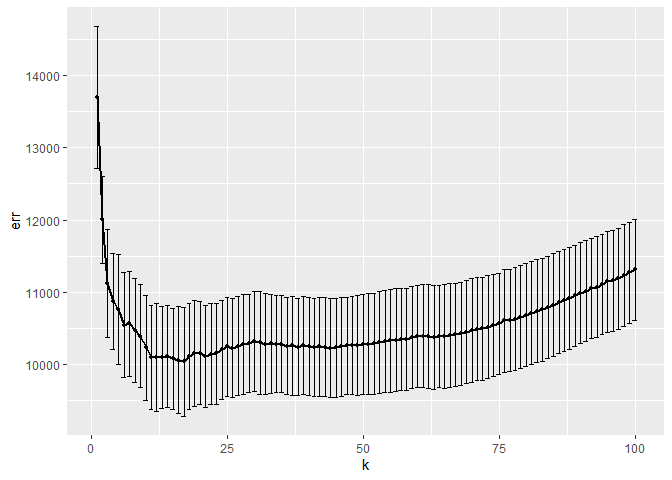
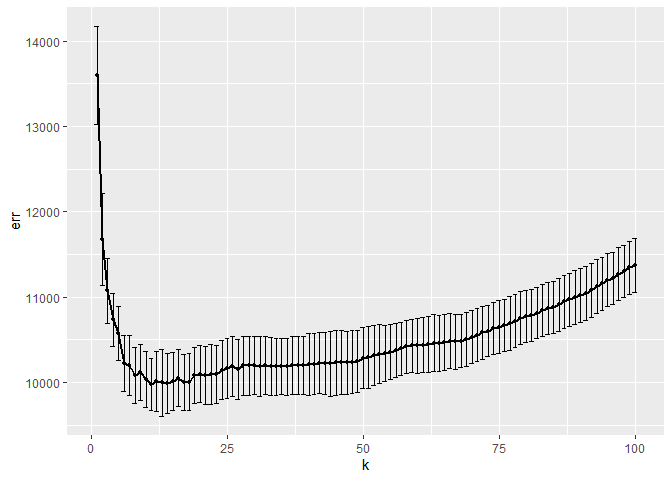
HW 2 code， DDL Mar7 5pm

diff --git a/Assignment-1.md b/Assignment-1.md
@@ -50,20 +50,67 @@ Top 100.
 
 we get the result:
 
-    ## # A tibble: 10 x 3
-    ## # Groups:   performer [10]
-    ##    performer                              song                             count
-    ##    <chr>                                  <chr>                            <int>
-    ##  1 Imagine Dragons                        Radioactive                         87
-    ##  2 AWOLNATION                             Sail                                79
-    ##  3 Jason Mraz                             I'm Yours                           76
-    ##  4 The Weeknd                             Blinding Lights                     76
-    ##  5 LeAnn Rimes                            How Do I Live                       69
-    ##  6 LMFAO Featuring Lauren Bennett & Goon~ Party Rock Anthem                   68
-    ##  7 OneRepublic                            Counting Stars                      68
-    ##  8 Adele                                  Rolling In The Deep                 65
-    ##  9 Jewel                                  Foolish Games/You Were Meant Fo~    65
-    ## 10 Carrie Underwood                       Before He Cheats                    64
+<table>
+<thead>
+<tr class="header">
+<th style="text-align: left;">performer</th>
+<th style="text-align: left;">song</th>
+<th style="text-align: right;">count</th>
+</tr>
+</thead>
+<tbody>
+<tr class="odd">
+<td style="text-align: left;">Imagine Dragons</td>
+<td style="text-align: left;">Radioactive</td>
+<td style="text-align: right;">87</td>
+</tr>
+<tr class="even">
+<td style="text-align: left;">AWOLNATION</td>
+<td style="text-align: left;">Sail</td>
+<td style="text-align: right;">79</td>
+</tr>
+<tr class="odd">
+<td style="text-align: left;">Jason Mraz</td>
+<td style="text-align: left;">I’m Yours</td>
+<td style="text-align: right;">76</td>
+</tr>
+<tr class="even">
+<td style="text-align: left;">The Weeknd</td>
+<td style="text-align: left;">Blinding Lights</td>
+<td style="text-align: right;">76</td>
+</tr>
+<tr class="odd">
+<td style="text-align: left;">LeAnn Rimes</td>
+<td style="text-align: left;">How Do I Live</td>
+<td style="text-align: right;">69</td>
+</tr>
+<tr class="even">
+<td style="text-align: left;">LMFAO Featuring Lauren Bennett &amp; GoonRock</td>
+<td style="text-align: left;">Party Rock Anthem</td>
+<td style="text-align: right;">68</td>
+</tr>
+<tr class="odd">
+<td style="text-align: left;">OneRepublic</td>
+<td style="text-align: left;">Counting Stars</td>
+<td style="text-align: right;">68</td>
+</tr>
+<tr class="even">
+<td style="text-align: left;">Adele</td>
+<td style="text-align: left;">Rolling In The Deep</td>
+<td style="text-align: right;">65</td>
+</tr>
+<tr class="odd">
+<td style="text-align: left;">Jewel</td>
+<td style="text-align: left;">Foolish Games/You Were Meant For Me</td>
+<td style="text-align: right;">65</td>
+</tr>
+<tr class="even">
+<td style="text-align: left;">Carrie Underwood</td>
+<td style="text-align: left;">Before He Cheats</td>
+<td style="text-align: right;">64</td>
+</tr>
+</tbody>
+</table>
 
 from the table we can get top 10 most popular songs since 1958
 
@@ -188,20 +235,20 @@ question 4
     ## Warning: executing %dopar% sequentially: no parallel backend registered
 
     ##          k      err  std_err
-    ## result.1 1 13695.15 976.3383
-    ## result.2 2 12003.51 600.0563
-    ## result.3 3 11125.18 747.5780
-    ## result.4 4 10874.85 666.0187
-    ## result.5 5 10761.74 758.4485
-    ## result.6 6 10544.60 723.7011
+    ## result.1 1 13593.57 573.1390
+    ## result.2 2 11675.46 539.2404
+    ## result.3 3 11075.46 382.3186
+    ## result.4 4 10736.26 310.1723
+    ## result.5 5 10575.33 321.5964
+    ## result.6 6 10225.49 330.6022
 
-    ##          k      err   std_err
-    ## result.1 1 27807.78 1541.3342
-    ## result.2 2 23945.93  944.0933
-    ## result.3 3 22235.61 1347.8117
-    ## result.4 4 22000.99 1507.6568
-    ## result.5 5 21958.50 1545.5383
-    ## result.6 6 21585.40 1747.2266
+    ##          k      err  std_err
+    ## result.1 1 29327.89 2064.075
+    ## result.2 2 23840.60 1784.914
+    ## result.3 3 21788.25 1979.042
+    ## result.4 4 21155.26 1981.973
+    ## result.5 5 21794.79 2002.342
+    ## result.6 6 21121.85 2008.562
 
 \#\#\#4 the relationship for RMSE and k，can find optimal k（line or
 point）
@@ -210,15 +257,15 @@ Then we try to find the optimal k for each trim
 
 so the optimal k for trim 350 and its RMSE is:
 
-    ## [1] 17
+    ## [1] 11
 
-    ## [1] 9734.978
+    ## [1] 9075.031
 
 so the optimal k for trim 65\_AUG and its RMSE is:
 
-    ## [1] 7
+    ## [1] 10
 
-    ## [1] 20714.21
+    ## [1] 20645.52
 
 then we fit the model to the training set and make predictions on your
 test set
@@ -226,14 +273,14 @@ test set
 so the out-of-sample root mean-squared error (RMSE) for trim 350 is and
 its fitting graph is:
 
-    ## [1] 9045.677
+    ## [1] 10785.48
 
 ![](Assignment-1_files/figure-markdown_strict/unnamed-chunk-13-1.png)
 
 so the out-of-sample root mean-squared error (RMSE) for trim 350 is and
 its fitting graph is:
 
-    ## [1] 20179.33
+    ## [1] 15897.91
 
 ![](Assignment-1_files/figure-markdown_strict/unnamed-chunk-16-1.png)
 
@@ -241,6 +288,7 @@ its fitting graph is:
 
 Because 65 AMG trim has smaller data size compare to 350 trim level.
 fewer observations.On the other hand, smaller estimation variance
-generally requires a less complex model, so we need set k smaller to
-contain various noises data.And when sample size is smaller, our setting
-k progress would be affected.
+generally requires a less complex model, small bias generally requires a
+more complex model.And when sample size is smaller, our setting k
+progress would be affected, in general we need set smaller k if its data
+size is smaller.
